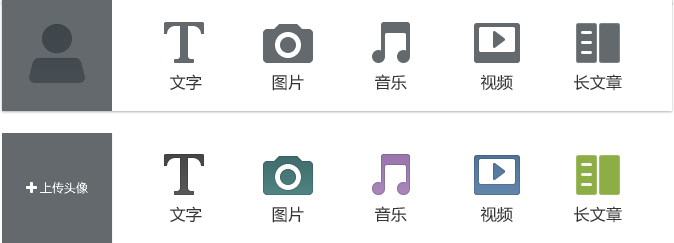
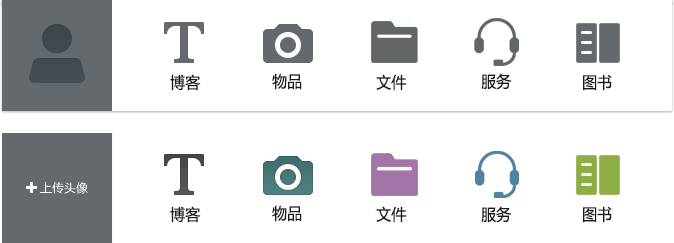
publish navs

diff --git a/WebClient/Vue_BS/otod/src/components/Person.vue b/WebClient/Vue_BS/otod/src/components/Person.vue
@@ -8,7 +8,7 @@
                          </a>
                      </li>
                     <li class="publish-link" v-for="(publish,index) in publishPosts" :class="publish.title" :key="index">
-                        <a href="">{{publish.title}}</a>
+                        <a @click="goRouter(publish.link)">{{publish.title}}</a>
                      </li>
                  </ul>
              </div>
@@ -40,7 +40,7 @@
             <div v-for="(update,index) in updatings" :key="index" class="update-item">
                 <div class="update-userHead">
                     <a>
-                        <img :src="update.author.headPhoto"/>
+                        <img :src="$imageUrl + update.author.headPhoto"/>
                     </a>
                 </div>
                 <div class="update-content">
@@ -54,7 +54,7 @@
                         <div class="message-content">
                             <div class="content-img">
                                 <a>
-                                  <img :src="update.images[0].url" :title="update.images[0].title"/>
+                                  <img :src="$imageUrl + update.images[0].url" :title="update.images[0].title"/>
                                 </a>
                             </div>
                             <div class="content-txt"></div>
@@ -86,15 +86,20 @@ export default{
     return {
       // 发布按钮
       publishPosts: [{
-        title: 'blog'
+        title: 'blog',
+        link: '/forumtopic/quilleditor'
       }, {
-        title: 'market'
+        title: 'market',
+        link: '/market/sell'
       }, {
-        title: 'service'
+        title: 'file',
+        link: ''
       }, {
-        title: 'book'
+        title: 'service',
+        link: '/service/publishorder'
       }, {
-        title: 'file'
+        title: 'book',
+        link: ''
       }],
 
       // 通知信息
@@ -103,7 +108,7 @@ export default{
       // 动态信息列表
       updatings: [{
         author: {
-          headPhoto: 'http://localhost:8081/images/hp/6630576284002729390.jpg',
+          headPhoto: 'hp/6630576284002729390.jpg',
           username: 'TianChengLiu',
           telephone: ''
         },
@@ -113,7 +118,7 @@ export default{
           name: '揍你'
         }],
         images: [{
-          url: 'http://localhost:8081/images/Images/1.jpg',
+          url: 'Images/1.jpg',
           title: '早上好'
         }],
         Content: '怕上火爆王老菊',
@@ -122,7 +127,7 @@ export default{
         }
       }, {
         author: {
-          headPhoto: 'http://localhost:8081/images/hp/6630576284002729390.jpg',
+          headPhoto: 'hp/6630576284002729390.jpg',
           username: 'TianChengLiu',
           telephone: ''
         },
@@ -132,7 +137,7 @@ export default{
           name: '揍你'
         }],
         images: [{
-          url: 'http://localhost:8081/images/Images/1.jpg',
+          url: 'Images/1.jpg',
           title: '早上好'
         }],
         Content: '怕上火爆王老菊',
@@ -162,9 +167,13 @@ export default{
         this.noticeList = response.data
       }.bind(this))
 
-
-
+      this.loading = false
       console.log('finished')
+    },
+
+    // route link
+    goRouter (src) {
+      this.$router.push(src)
     },
 
     // 通知栏关闭

diff --git a/WebClient/Vue_BS/otod/src/assets/css/homePage.css b/WebClient/Vue_BS/otod/src/assets/css/homePage.css
@@ -64,15 +64,15 @@ a {
     background-position: -224px -133px;
 }
 
-.main .publish-navs li.service a:hover{
-    background-position: -335px -133px;
+.main .publish-navs li.file a:hover{
+    background-position: -335px -134px;
+}
+
+.main .publish-navs li.service  a:hover{
+    background-position: -446px -134px;
 }
 
 .main .publish-navs li.book  a:hover{
-    background-position: -446px -133px;
-}
-
-.main .publish-navs li.file  a:hover{
     background-position: -557px -133px;
 }
 
@@ -170,7 +170,8 @@ a {
 .main  .update-item {
     float: left;
     width: 672px;
-    margin-top: 20px;
+    margin-top: 10px;
+    margin-bottom: 10px;
 }
 
 .update-item  .update-userHead {
@@ -302,13 +303,16 @@ a {
 
 /*load bar css*/
 .main .load-bar {
+    float: left;
     width: 100%;
-    margin: 20px auto;
+    margin: 40px auto;
+    padding-left: 110px;
     text-align: center;
 }
 .load-bar .loading{
     display: inline-block;
     padding-right: 68px;
+    margin-left: -70px;
     color: #444;
     font-size: 22px;
     line-height: 25px;
@@ -376,6 +380,10 @@ a {
     font-size: 14px;
 }
 
+.user-menu .user-setting .menu-item{
+    padding: 6px 0;
+}
+
 .user-menu .large .menu-item{
     height: 36px;
     padding-left: 16px;
@@ -383,7 +391,7 @@ a {
     /*border-right: 1px solid #dfdfdf;*/
 }
 
-.user-menu .menu-item .txt{
+.user-menu .menu-item .txt, .user-setting .menu-item .txt{
     float: left;
     width: 140px;
     height: 18px;
@@ -398,7 +406,7 @@ a {
     height: 36px;
 }
 
-.user-menu .small .menu-item .icon {
+.user-menu .menu-item .icon {
     float: left;
     width: 25px;
     height: 18px;
@@ -429,6 +437,10 @@ a {
 
 .user-menu .small .menu-item .icon.icon-6{
     background-position: 0 -1966px;
+}
+
+.user-menu .user-setting .icon.setting{
+    background-position: 0 -1601px;
 }
 
 .user-menu .small .menu-item .inf {

diff --git a/WebClient/Vue_BS/otod/src/pages/Home.vue b/WebClient/Vue_BS/otod/src/pages/Home.vue
@@ -22,7 +22,10 @@
                              </a>
                          </li>
                         <li class="user-setting" @click="setting()">
-                            <span>个人信息设置</span>
+                            <a class="menu-item">
+                              <span class="icon setting"></span>
+                              <span class="txt">个人信息设置</span>
+                             </a>
                          </li>
                      </ul>
                  </div>

diff --git a/WebClient/Vue_BS/otod/src/pages/Blog.vue b/WebClient/Vue_BS/otod/src/pages/Blog.vue
@@ -191,7 +191,7 @@ export default {
       }
     }
   },
-  
+
   methods: {
     // 发表帖子
     postData () {
@@ -413,6 +413,3 @@ export default {
   }
 }
 </script>
-
-<style>
-</style>
